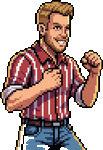
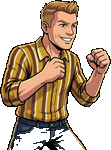
Version 83: Byron's and Kelly's cards repainted to match the other lads
Byron's was drawn like his cartoon sprite rather than from his photo, and Kelly's was more pixelated than the rest.
Both are repainted with Meshy, with his photo face first and Tim's card as the style. Their roster faces are reframed,
and v82_build now refreshes the FACE data when faces.json changes.

Claude-Session: https://claude.ai/code/session_01G9hG8tJyx3ogR5TifD2zQK

diff --git a/web/index.html b/web/index.html
@@ -15231,7 +15231,7 @@ const T3 = (() => {
   ];
   const FLAT = CHAPS.flatMap((c, ci) => c.keys.map(k => ({ k, ci })));
   // Version 82: faces for the roster (a square on each lad's card: x, y, size, card width, card height) and a picture for each stage
-  const FACE = {"tim":[29,0,61,112,150],"seb":[31,0,54,118,150],"byron":[0,0,74,74,150],"pearcy":[32,0,61,130,150],"kelly":[24,0,60,103,150],"marc":[24,0,60,104,150],"sam":[19,0,66,103,150],"thet":[16,0,88,108,150],"ash":[14,0,66,102,150]};
+  const FACE = {"tim":[29,0,61,112,150],"seb":[31,0,54,118,150],"byron":[31,0,56,110,150],"pearcy":[32,0,61,130,150],"kelly":[30,0,58,111,150],"marc":[24,0,60,104,150],"sam":[19,0,66,103,150],"thet":[16,0,88,108,150],"ash":[14,0,66,102,150]};
   const THUMB = { frequency: 'meshy/frequency_0', soundz: 'meshy/soundz_0', orp_street: 'orp/busstop', orp_pub: 'orp/bar', orp_atlantis: 'orp/floor', airport: 'meshy/airport_0',
     road: 'meshy/road_loop', divebar: 'meshy/divebar_0', beach: 'meshy/beach_0', club: 'meshy/club_1', nl_station: 'meshy/nl_station_0', nl_train: 'nightlife/tr_wall',
     nl_cx: 'meshy/nl_cx_0', nl_alley: 'meshy/nl_alley_0', nl_bus: 'nightlife/bus_deck', arrival: 'meshy/arrival_0', naval: 'meshy/naval_loop', social: 'meshy/social_0',

diff --git a/tools/v83/ladcards_fix.py b/tools/v83/ladcards_fix.py
@@ -1,0 +1,43 @@
+"""Version 83: Byron's and Kelly's card portraits repainted: python3 tools/v83/ladcards_fix.py [--make]
+
+Tim (31 October): Byron's card looked like his cartoon game sprite, not the version made from his photo, and Kelly's was
+far more pixelated than the other lads'. Same Meshy pipeline as tools/v65/ladcards.py (the card on the lad select, the
+roster faces and the intro slam-in all use web/bg/ladcard/<lad>.png), with two changes: his photo-based face
+(tools/v65/img/ladref/<lad>.webp) leads, and Tim's finished card goes in as the style to match (smooth comic art, not
+pixel art). Kept in tools/v65/img/ladcard/ (the old ones are kept as <lad>_v65.webp)."""
+import importlib.util, os, shutil, subprocess, sys
+from PIL import Image
+HERE = os.path.dirname(os.path.abspath(__file__)); ROOT = os.path.dirname(os.path.dirname(HERE)); WORK = os.environ.get('MESHY_WORK', '/tmp/meshy_work')
+spec = importlib.util.spec_from_file_location('lc', os.path.join(ROOT, 'tools', 'v65', 'ladcards.py')); lc = importlib.util.module_from_spec(spec); spec.loader.exec_module(lc)
+SRC = os.path.join(ROOT, 'tools', 'v65', 'img', 'ladcard'); REF = os.path.join(ROOT, 'tools', 'v65', 'img', 'ladref')
+WHO = {
+    'byron': 'a man with short dark hair cut short at the sides and a clean-shaven face, in a grey jacket over a white T-shirt with a referee\'s whistle on a cord round his neck, and jeans',
+    'kelly': 'a slim young man with short fair hair swept up at the front, in a striped shirt and jeans',
+}
+
+
+def make(lad, M):
+    D = os.path.join(WORK, 'ladcard'); os.makedirs(D, exist_ok=True)
+    lc.bc.CARDS[lad] = ([lad], WHO[lad]); rp = os.path.join(D, lad + '_sprite.png'); lc.bc.ref(lad, M).save(rp)
+    refs = [os.path.join(REF, lad + '.webp'), rp, os.path.join(SRC, 'tim.webp')]
+    prompt = (f"A hero introduction portrait for a beat 'em up video game of this exact man: {WHO[lad]}. "
+              "His face, hair and expression exactly as in the first image (it's from his photo). His clothes and colours from the second image. "
+              "Draw him in exactly the same art style as the third image: smooth bold comic-book art with thick clean black outlines, flat cel shading "
+              "with two or three tones per colour, a golden rim light, normal adult proportions. NOT pixel art, no visible pixels, not chibi, not a big head. "
+              "Waist up, three-quarter view turned to the right, fists up, confident grin, ready for a scrap. "
+              "Plain flat dark blue background, nothing else in it. Only him. No text.")
+    subprocess.run([sys.executable, os.path.join(ROOT, 'tools', 'v64', 'meshy_free.py'), 'ladcard', lad + '_v83', prompt, ','.join(refs)], check=True,
+                   env=dict(os.environ, MESHY_WORK=WORK, ASPECT='1:1'))
+    old = os.path.join(SRC, lad + '.webp'); keep = os.path.join(SRC, lad + '_v65.webp')
+    if os.path.exists(old) and not os.path.exists(keep): shutil.copy(old, keep)
+    Image.open(os.path.join(D, lad + '_v83_raw.png')).save(old, quality=94, method=6)
+
+
+if __name__ == '__main__':
+    lads = [k for k in sys.argv[1:] if not k.startswith('--')] or list(WHO)
+    if '--make' in sys.argv:
+        M = lc.bc.meta()
+        for l in lads: make(l, M)
+    lc.bc.SRC, lc.bc.OUT, lc.bc.CARD_H = SRC, lc.OUT, 150
+    for l in lads: lc.bc.cut(l)
+    print('cut', lads)

diff --git a/tools/v82_build.py b/tools/v82_build.py
@@ -35,6 +35,8 @@ s = put(s, '      <!-- V82 html start -->', '      <!-- V82 html end -->', read(
 FACE = json.load(open(os.path.join(HERE, 'faces.json')))
 a, b = s.index('// T3 js start'), s.index('// T3 js end')
 t3 = s[a:b]
+# faces.json can change after a build (Version 83 repainted Byron and Kelly), so refresh the FACE line if it is already in
+t3 = re.sub(r"  const FACE = \{[^\n]*\};\n", lambda m: "  const FACE = " + json.dumps(FACE, separators=(',', ':')) + ";\n", t3)
 T3_SWAPS = [
     ('data', "  const DIFF_NOTE = {",
      "  // Version 82: faces for the roster (a square on each lad's card: x, y, size, card width, card height) and a picture for each stage\n"

diff --git a/README.md b/README.md
@@ -48,6 +48,7 @@ Move with the stick (hold it right out to run), HIT to attack (tap it for your c
 - `tools/v80_build.py` (re-runs `v79_build.py`): Streets of Rage 4 style hits, Tim first. Each combo hit leaves a glowing swoosh trail in the lad's colour following his fist or foot, and his hits throw his own directional spark (light, and heavy for the finisher) made in PixelLab's VFX workbench (`tools/v80/src/`, copied to `web/fx/tim_spark*.png`). Code `tools/v80/fx.js` (between `// V80 js start` and `// V80 js end`); which lads get it is FX_LADS, the trail shapes SWOOSH. `tools/v80/test.py` checks it headless.
 - `tools/v81_build.py` (re-runs `v80_build.py`): every lad's own hits. Each lad's trails and sparks in his own colour (FX_COL; `tools/v81/sparks.py` recolours Tim's spark sheets), trails fitted to his own fists and feet (SW_FIT), and a signature PixelLab effect on each mini special (`tools/v81/src/mini_<lad>.png`, copied to `web/fx/`; timing and placing in MINI_FX) with a flash of his colour on the last hit. Code `tools/v81/fx.js` (between `// V81 js start` and `// V81 js end`); `tools/v81/test.py` checks every lad headless.
 - `tools/v82_build.py` (run after the others): Version 82, the menus redesigned (Tim's pick, design A from the mockups). A start menu between the title and the lads (CARRY ON, NEW GAME, PLAY ONLINE, THE HARVEST MOON, TROPHIES / SCORES / SETTINGS), a header on the select screens instead of the bottom bar, faces in the lad roster (framed per lad from `tools/v82/faces.json`), the chapters down the side with the stages as picture cards, SETTINGS from the menu. Patches the 3D select code in the page between `// T3 js start` and `// T3 js end`; CSS and HTML in `tools/v82/`. `tools/v82/test.py` walks the menus headless with WebGL on.
+- `tools/v83/ladcards_fix.py`: Version 83, Byron's and Kelly's card portraits (`web/bg/ladcard/`) repainted with Meshy from his photo face, in the style of Tim's card (`--make` repaints, without it just recuts the 150px cards). Re-run `tools/v82_build.py` after to pick up the faces in `tools/v82/faces.json`.
 - `web/vendor/three.module.min.js` is three.js r165 (MIT, see `three.LICENSE`), used by the title screen in the app.
 - `.github/workflows/apk.yml` builds the APK on every push to `main` and publishes it as the latest release.
 

diff --git a/ToDo.MD b/ToDo.MD
@@ -226,6 +226,7 @@ Tim: the title goes straight into character select, the options along the bottom
 - [x] Tim: pick a level select (A or B) and say what to change, then build it into the 3D title's HTML layer (#t3)
   - Done (V82): Tim picked A. Built into the real menus over the 3D street: the start menu (the lads lined up on the road to its right, the logo above it), the header on the select screens (back, the steps that tick off with what you picked, your name), faces in the roster, the chapters down the side with NEW on Orpington 2001 until you've a rank there, the stages as picture cards, START HERE, then 3 GO. SETTINGS on the menu opens the settings panel on its own. Language moves to Settings
 - [x] Tim: Byron's roster picture was just his head next to the others' head and shoulders (his card is a smaller, big-headed figure). Done (V82): each lad's face is framed from his own card (`tools/v82/faces.json`), so they all match
+- [x] Tim: wrong card art for Byron and Kelly. Byron's looked like his cartoon game sprite, not the version made from his photo, and Kelly's was far more pixelated than the other lads'. Done (V83): both repainted with Meshy (`tools/v83/ladcards_fix.py`), his photo face first and Tim's card as the style to match, so they're smooth comic art like the rest. The old ones are kept as `tools/v65/img/ladcard/<lad>_v65.webp`. Their roster faces were reframed in `tools/v82/faces.json`, and `tools/v82_build.py` now refreshes the faces when that file changes
 - [ ] Tim: try the new menus on the phone (the start menu buttons, the roster faces, the chapter list)
 
 ### Hits and specials that look powerful (31 October, idea from Streets of Rage 4)
